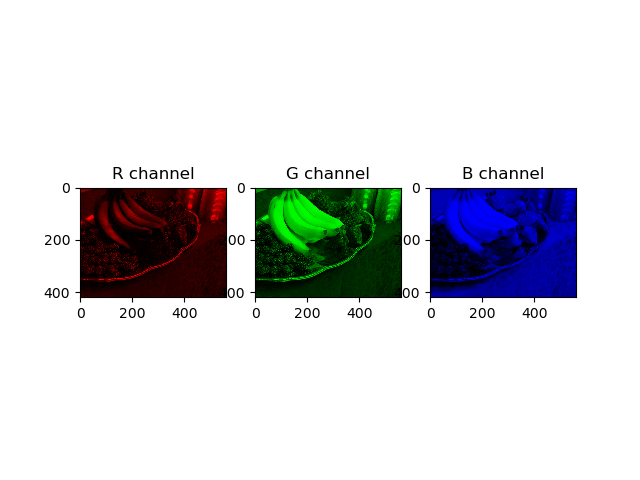
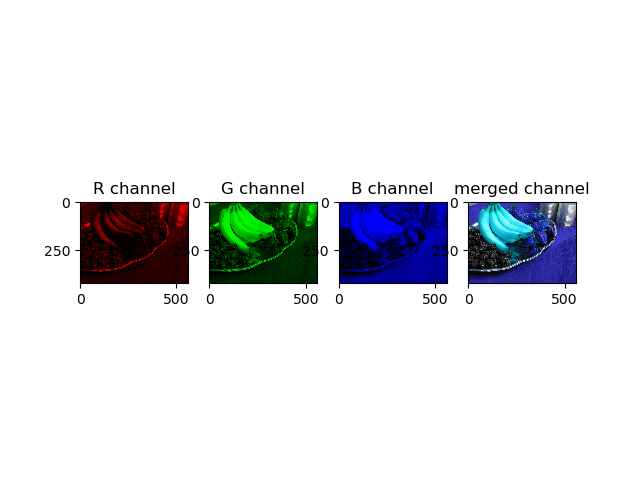
changes to rgb channels  and hsi channel show

Changed region(s): [[0.0625, 0.3438, 0.9375, 0.6875]]

diff --git a/main.py b/main.py
@@ -14,7 +14,7 @@ Area = size[0]* size[1]
 
 # Splitting channels from image
 
-fig, axes = plt.subplots(1, 3)
+fig, axes = plt.subplots(1, 4)
  
 # image[:, :, 0] is R channel, replace the rest by 0.
 imageR = image.copy()
@@ -33,9 +33,25 @@ imageB = image.copy()
 imageB[:, :, 0:2] = 0
 axes[2].set_title('B channel')
 axes[2].imshow(imageB)
+
+image_org = image.copy()
+axes[3].set_title('merged channel')
+axes[3].imshow(image_org)
+#plt.show()
 plt.savefig('RGB_color.png')
 plt.clf()
 
+# rgb splittig and merging
+b, g, r = cv2.split(image)
+#cv2.imshow("blue",b)
+cv2.imwrite("channels/blue channel.jpg",b )
+#cv2.imshow("green",g)
+cv2.imwrite("channels/green channel.jpg",g )
+#cv2.imshow("red",r)
+cv2.imwrite("channels/red channel.jpg",r )
+bgr = cv2.merge([b, g, r])
+#cv2.imshow("RGB merged",bgr)
+cv2.imwrite("channels/merged RGB.jpg",bgr )
 
 # calculations
 print ("image Area: ",Area)
@@ -179,11 +195,20 @@ def RGB_TO_HSI(img):
             return hue
 
         #Merge channels into picture and return image
-        hsi = cv2.merge((calc_hue(red, blue, green), calc_saturation(red, blue, green), calc_intensity(red, blue, green)))
-        return hsi
+        H = calc_hue(red, blue, green)
+        S = calc_saturation(red, blue, green)
+        I = calc_intensity(red, blue, green)
+        hsi = cv2.merge((H,S ,I ))
 
-HSI_Image = RGB_TO_HSI(image)
-#cv2.imshow("HSI Image.png",HSI_Image )
+        return hsi ,H,S
+
+HSI_Image,H,S = RGB_TO_HSI(image)
+cv2.imshow("HSI Image.png",HSI_Image )
 #cv2.imwrite("HSIImage.png", HSI_Image)
+cv2.imshow("H",H )
+#cv2.imwrite("H.png",H)
+cv2.imshow("S",S )
+#cv2.imwrite("S.png",S )
+
 
 cv2.waitKey(0)
